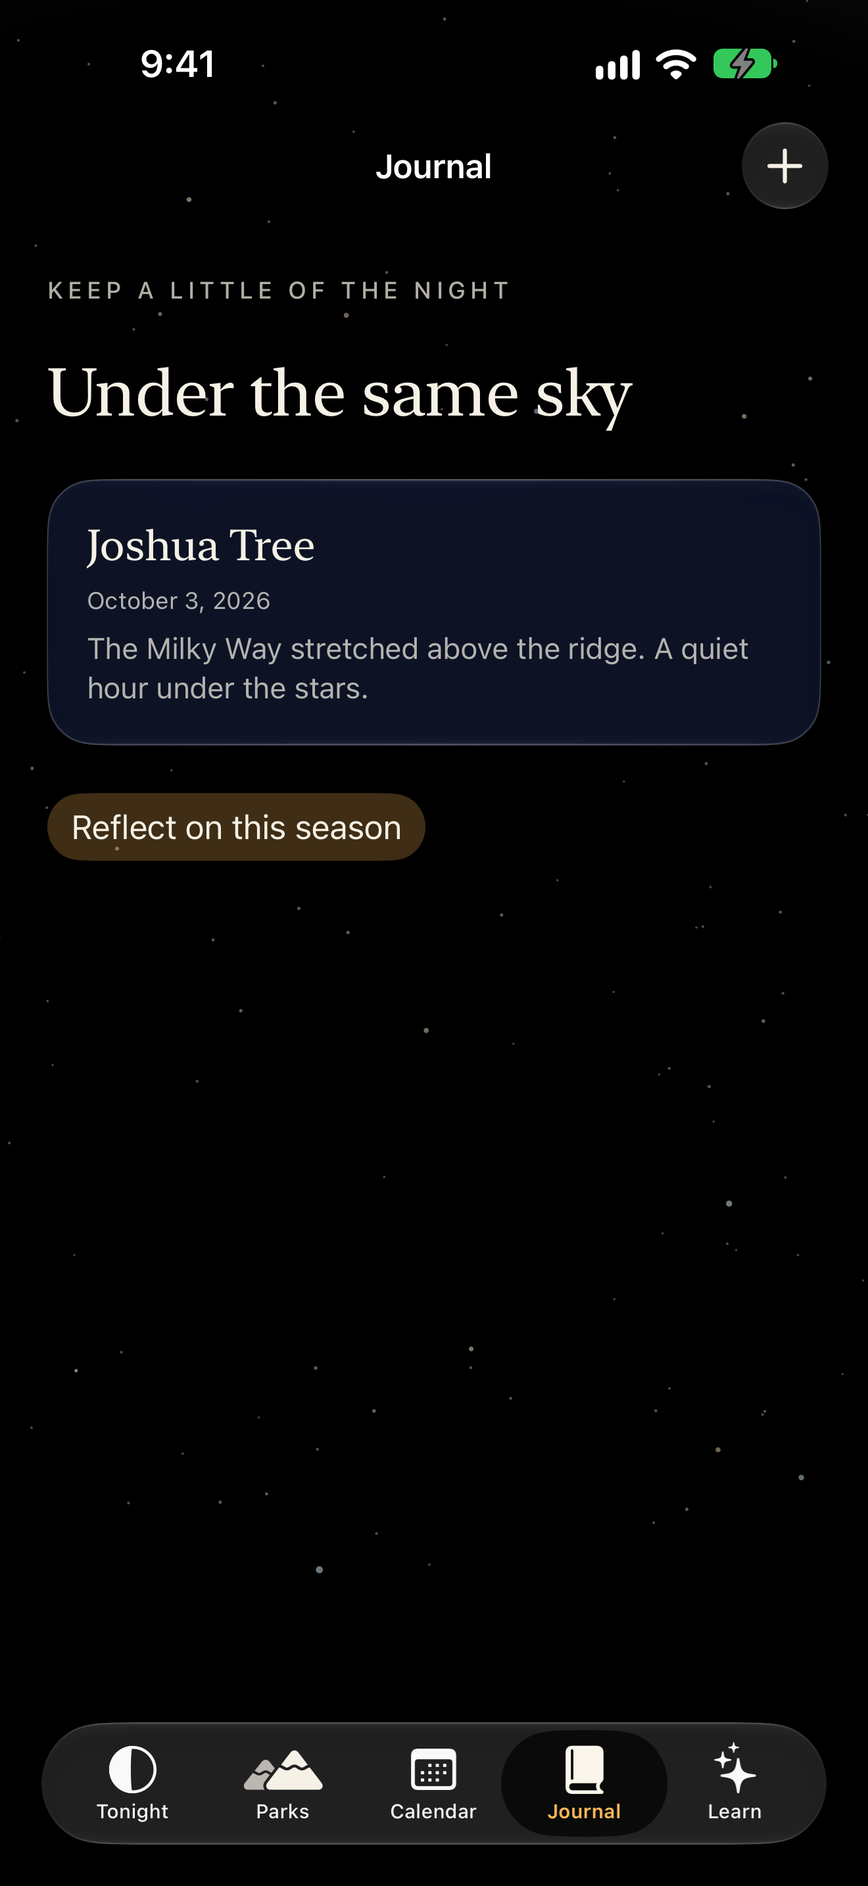
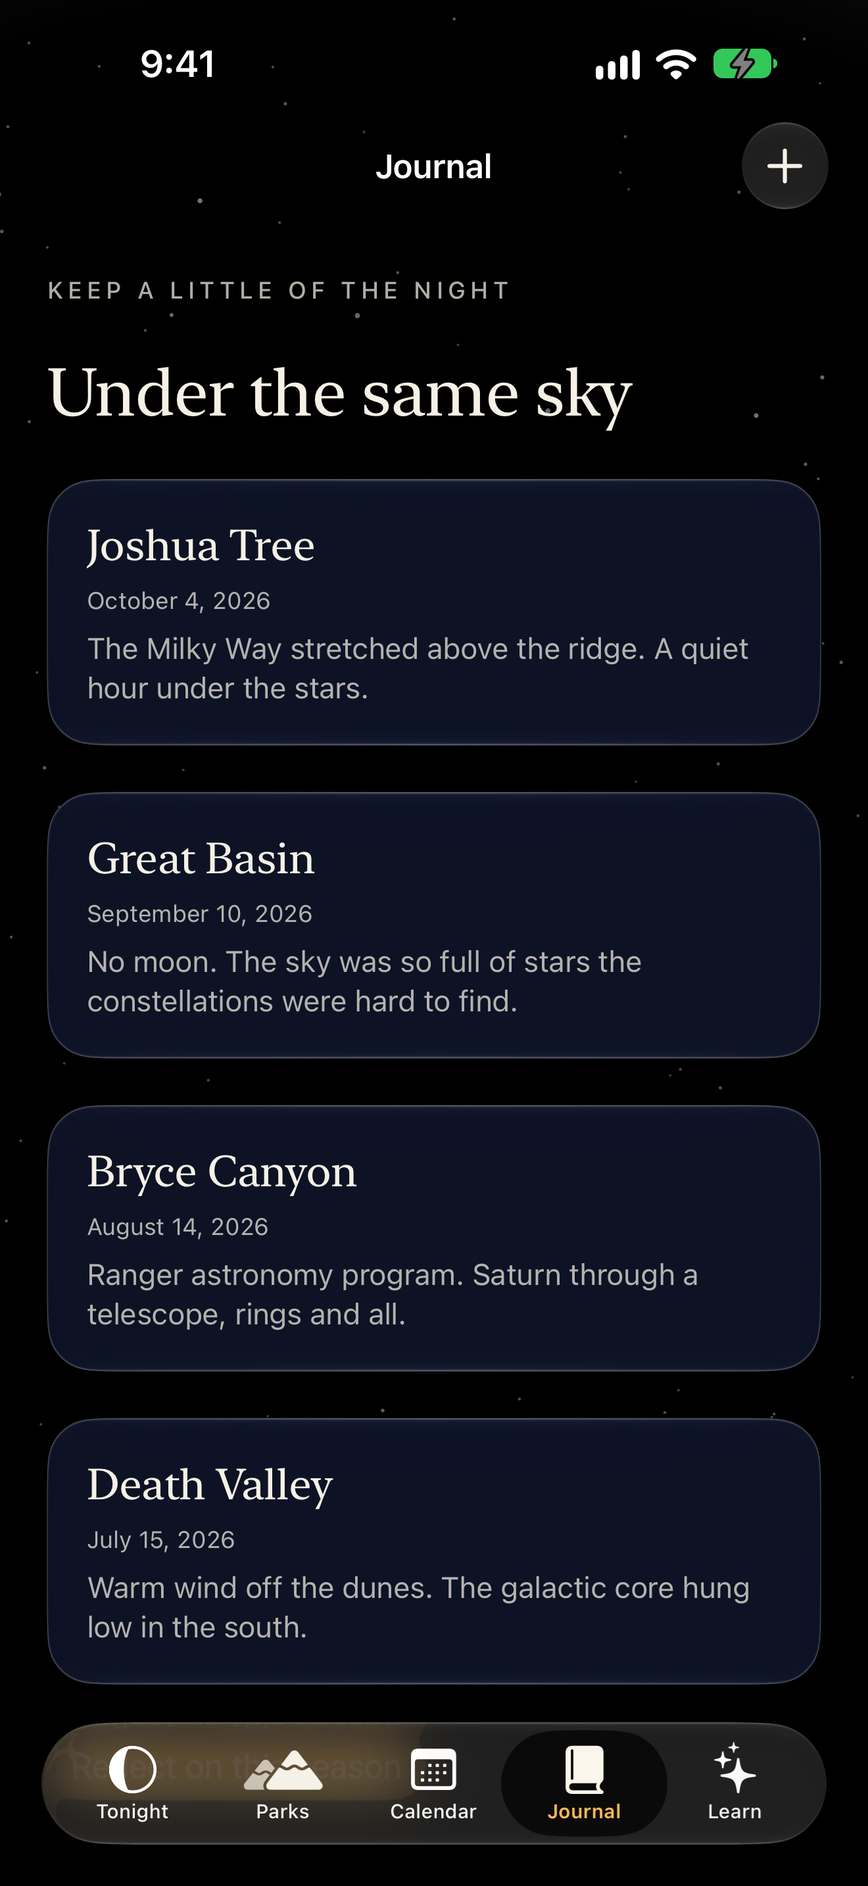
Add captioned App Store screenshots and social launch images
- Store/Framed: six captioned frames at 6.9" (1320x2868) and 6.5" (1284x2778),
  flattened, built by Scripts/make_store_frames.swift from the raw captures.
- Store/Social: four 1080x1350 images and post copy for X and Threads,
  built by Scripts/make_social.swift.
- DEBUG populated journal seeds four illustrative sessions; journal capture
  retaken so the frame isn't mostly empty.

diff --git a/Scripts/make_store_frames.swift b/Scripts/make_store_frames.swift
@@ -1,0 +1,127 @@
+// Builds captioned App Store screenshots from the raw captures in Store/Screenshots.
+// Usage: swift Scripts/make_store_frames.swift  (run from the repo root)
+// Writes Store/Framed/6.9-inch (1320×2868) and Store/Framed/6.5-inch (1284×2778), flattened, no alpha.
+import AppKit
+
+struct Frame {
+    let source: String
+    let output: String
+    let eyebrow: String
+    let headline: String
+    var subline: String? = nil
+    var accent = NSColor(srgbRed: 1, green: 0xB4/255, blue: 0x54/255, alpha: 1)
+}
+
+let signalRed = NSColor(srgbRed: 1, green: 0x45/255, blue: 0x3A/255, alpha: 1)
+let frames = [
+    Frame(source: "01-tonight-6.9.png", output: "01-tonight.png",
+          eyebrow: "TONIGHT", headline: "Where is the sky\ndarkest tonight?"),
+    Frame(source: "02-detail-6.9.png", output: "02-score.png",
+          eyebrow: "THE DARKNESS SCORE", headline: "Moon, clouds, light pollution.\nOne honest number."),
+    Frame(source: "03-calendar-6.9.png", output: "03-calendar.png",
+          eyebrow: "BEST NIGHTS", headline: "Choose the night\nworth the drive."),
+    Frame(source: "04-parks-6.9.png", output: "04-parks.png",
+          eyebrow: "63 NATIONAL PARKS", headline: "Every park,\nscored every night."),
+    Frame(source: "06-learn-6.9.png", output: "05-night-vision.png",
+          eyebrow: "NIGHT VISION", headline: "Red light that keeps\nyour eyes dark-adapted.", accent: signalRed),
+    Frame(source: "05-journal-6.9.png", output: "06-journal.png",
+          eyebrow: "JOURNAL", headline: "Keep a little\nof the night.",
+          subline: "No account. No tracking. Your journal stays on this iPhone."),
+]
+
+let starlight = NSColor(srgbRed: 0xF5/255, green: 0xF1/255, blue: 0xE6/255, alpha: 1)
+let indigo = NSColor(srgbRed: 0x0B/255, green: 0x10/255, blue: 0x26/255, alpha: 1)
+let violet = NSColor(srgbRed: 0x2A/255, green: 0x1B/255, blue: 0x4E/255, alpha: 1)
+let rgb = CGColorSpaceCreateDeviceRGB()
+
+func serif(_ size: CGFloat) -> NSFont {
+    let base = NSFont.systemFont(ofSize: size, weight: .regular)
+    if let d = base.fontDescriptor.withDesign(.serif), let f = NSFont(descriptor: d, size: size) { return f }
+    return base
+}
+
+// Deterministic generator so every run draws the same stars.
+struct LCG { var s: UInt64; mutating func next() -> CGFloat { s = s &* 6364136223846793005 &+ 1442695040888963407; return CGFloat(s >> 33) / CGFloat(1 << 31) } }
+
+func render(_ frame: Frame, index: Int, width W: CGFloat, height H: CGFloat) -> Data? {
+    guard let shot = NSImage(contentsOfFile: "Store/Screenshots/" + frame.source),
+          let shotCG = shot.cgImage(forProposedRect: nil, context: nil, hints: nil),
+          let rep = NSBitmapImageRep(bitmapDataPlanes: nil, pixelsWide: Int(W), pixelsHigh: Int(H), bitsPerSample: 8,
+                                     samplesPerPixel: 4, hasAlpha: true, isPlanar: false, colorSpaceName: .deviceRGB,
+                                     bytesPerRow: 0, bitsPerPixel: 0),
+          let base = NSGraphicsContext(bitmapImageRep: rep) else { return nil }
+    let u = H / 2868  // layout unit, so both sizes share one design
+    let ctx = base.cgContext
+    ctx.translateBy(x: 0, y: H); ctx.scaleBy(x: 1, y: -1)  // top-left origin
+    NSGraphicsContext.current = NSGraphicsContext(cgContext: ctx, flipped: true)
+
+    // Void black with a low violet/indigo glow behind the phone.
+    ctx.setFillColor(NSColor.black.cgColor); ctx.fill(CGRect(x: 0, y: 0, width: W, height: H))
+    let glowTint = frame.accent == signalRed ? signalRed.withAlphaComponent(0.22) : violet.withAlphaComponent(0.6)
+    let glow = CGGradient(colorsSpace: rgb, colors: [glowTint.cgColor, indigo.withAlphaComponent(0.3).cgColor, NSColor.clear.cgColor] as CFArray,
+                          locations: [0, 0.45, 1])!
+    let glowCenter = CGPoint(x: W / 2, y: H * 0.78)
+    ctx.drawRadialGradient(glow, startCenter: glowCenter, startRadius: 0, endCenter: glowCenter, endRadius: W * 0.95, options: [])
+
+    var rng = LCG(s: UInt64(1009 + index * 31))
+    for _ in 0..<260 {
+        let x = rng.next() * W, y = rng.next() * H, r = (0.8 + rng.next() * 2.0) * u
+        let a = 0.12 + rng.next() * 0.55
+        ctx.setFillColor((frame.accent == signalRed ? signalRed : starlight).withAlphaComponent(a).cgColor)
+        ctx.fillEllipse(in: CGRect(x: x - r, y: y - r, width: r * 2, height: r * 2))
+    }
+
+    // Eyebrow, headline and optional subline.
+    let center = NSMutableParagraphStyle(); center.alignment = .center; center.lineSpacing = 6 * u
+    NSAttributedString(string: frame.eyebrow, attributes: [
+        .font: NSFont.systemFont(ofSize: 34 * u, weight: .semibold), .foregroundColor: frame.accent,
+        .kern: 9.0 * u, .paragraphStyle: center,
+    ]).draw(in: CGRect(x: 60 * u, y: 190 * u, width: W - 120 * u, height: 50 * u))
+    let longest = frame.headline.split(separator: "\n").map(\.count).max() ?? 0
+    let headSize: CGFloat = (longest > 24 ? 84 : 100) * u
+    NSAttributedString(string: frame.headline, attributes: [
+        .font: serif(headSize), .foregroundColor: frame.accent == signalRed ? signalRed : starlight,
+        .kern: -0.6 * u, .paragraphStyle: center,
+    ]).draw(in: CGRect(x: 50 * u, y: 262 * u, width: W - 100 * u, height: 280 * u))
+    if let subline = frame.subline {
+        NSAttributedString(string: subline, attributes: [
+            .font: NSFont.systemFont(ofSize: 32 * u), .foregroundColor: starlight.withAlphaComponent(0.7), .paragraphStyle: center,
+        ]).draw(in: CGRect(x: 60 * u, y: 548 * u, width: W - 120 * u, height: 50 * u))
+    }
+
+    // The full capture as a floating screen with an accent halo and hairline edge.
+    let phoneH = 2150 * u
+    let phoneW = phoneH * CGFloat(shotCG.width) / CGFloat(shotCG.height)
+    let rect = CGRect(x: (W - phoneW) / 2, y: (frame.subline == nil ? 640 : 660) * u, width: phoneW, height: phoneH)
+    let path = CGPath(roundedRect: rect, cornerWidth: 118 * u, cornerHeight: 118 * u, transform: nil)
+    ctx.saveGState()
+    ctx.setShadow(offset: .zero, blur: 90 * u, color: frame.accent.withAlphaComponent(0.22).cgColor)
+    ctx.addPath(path); ctx.setFillColor(NSColor.black.cgColor); ctx.fillPath()
+    ctx.restoreGState()
+    ctx.saveGState()
+    ctx.addPath(path); ctx.clip()
+    ctx.translateBy(x: rect.minX, y: rect.maxY); ctx.scaleBy(x: 1, y: -1)
+    ctx.interpolationQuality = .high
+    ctx.draw(shotCG, in: CGRect(origin: .zero, size: rect.size))
+    ctx.restoreGState()
+    ctx.addPath(path); ctx.setStrokeColor(starlight.withAlphaComponent(0.18).cgColor); ctx.setLineWidth(3 * u); ctx.strokePath()
+
+    NSGraphicsContext.current = nil
+    // Flatten: App Store Connect rejects screenshots with an alpha channel.
+    guard let cg = rep.cgImage,
+          let flat = CGContext(data: nil, width: Int(W), height: Int(H), bitsPerComponent: 8, bytesPerRow: 0,
+                               space: CGColorSpace(name: CGColorSpace.sRGB)!, bitmapInfo: CGImageAlphaInfo.noneSkipLast.rawValue) else { return nil }
+    flat.draw(cg, in: CGRect(x: 0, y: 0, width: W, height: H))
+    guard let out = flat.makeImage() else { return nil }
+    return NSBitmapImageRep(cgImage: out).representation(using: .png, properties: [:])
+}
+
+for (folder, w, h) in [("6.9-inch", 1320.0, 2868.0), ("6.5-inch", 1284.0, 2778.0)] {
+    let dir = URL(fileURLWithPath: "Store/Framed/\(folder)", isDirectory: true)
+    try FileManager.default.createDirectory(at: dir, withIntermediateDirectories: true)
+    for (i, frame) in frames.enumerated() {
+        guard let png = render(frame, index: i, width: CGFloat(w), height: CGFloat(h)) else { print("failed \(frame.source)"); continue }
+        try png.write(to: dir.appendingPathComponent(frame.output))
+        print("wrote Store/Framed/\(folder)/\(frame.output)")
+    }
+}

diff --git a/Scripts/make_social.swift b/Scripts/make_social.swift
@@ -1,0 +1,131 @@
+// Builds 1080×1350 (4:5) social images from the App Store captures.
+// Usage: swift Scripts/make_social.swift  (run from the repo root)
+import AppKit
+
+struct Card {
+    let source: String
+    let output: String
+    let eyebrow: String
+    let headline: String
+    let cropTop: CGFloat  // fraction of the capture hidden above the frame
+}
+
+let cards = [
+    Card(source: "Store/Screenshots/01-tonight-6.9.png", output: "01-tonight.png",
+         eyebrow: "NYX FOR IPHONE", headline: "Where is the sky\ndarkest tonight?", cropTop: 0),
+    Card(source: "Store/Screenshots/02-detail-6.9.png", output: "02-score.png",
+         eyebrow: "THE NEXT 30 NIGHTS", headline: "Follow the moon.\nFind the darker nights.", cropTop: 0.33),
+    Card(source: "Store/Screenshots/03-calendar-6.9.png", output: "03-calendar.png",
+         eyebrow: "BEST NIGHTS", headline: "Choose the night\nworth the drive.", cropTop: 0.12),
+    Card(source: "Store/Screenshots/04-parks-6.9.png", output: "04-parks.png",
+         eyebrow: "63 NATIONAL PARKS", headline: "Every park,\nscored every night.", cropTop: 0.12),
+]
+
+let W: CGFloat = 1080, H: CGFloat = 1350
+let starlight = NSColor(srgbRed: 0xF5/255, green: 0xF1/255, blue: 0xE6/255, alpha: 1)
+let amber = NSColor(srgbRed: 1, green: 0xB4/255, blue: 0x54/255, alpha: 1)
+let indigo = NSColor(srgbRed: 0x0B/255, green: 0x10/255, blue: 0x26/255, alpha: 1)
+let violet = NSColor(srgbRed: 0x2A/255, green: 0x1B/255, blue: 0x4E/255, alpha: 1)
+
+func serif(_ size: CGFloat) -> NSFont {
+    let base = NSFont.systemFont(ofSize: size, weight: .regular)
+    if let d = base.fontDescriptor.withDesign(.serif), let f = NSFont(descriptor: d, size: size) { return f }
+    return NSFont(name: "New York", size: size) ?? base
+}
+
+// Small deterministic generator so every run draws the same stars.
+struct LCG { var s: UInt64; mutating func next() -> CGFloat { s = s &* 6364136223846793005 &+ 1442695040888963407; return CGFloat(s >> 33) / CGFloat(1 << 31) } }
+
+let outDir = URL(fileURLWithPath: "Store/Social", isDirectory: true)
+try FileManager.default.createDirectory(at: outDir, withIntermediateDirectories: true)
+
+for (index, card) in cards.enumerated() {
+    guard let shot = NSImage(contentsOfFile: card.source),
+          let shotCG = shot.cgImage(forProposedRect: nil, context: nil, hints: nil) else {
+        print("missing \(card.source)"); continue
+    }
+    guard let rep = NSBitmapImageRep(bitmapDataPlanes: nil, pixelsWide: Int(W), pixelsHigh: Int(H), bitsPerSample: 8,
+                                     samplesPerPixel: 4, hasAlpha: true, isPlanar: false, colorSpaceName: .deviceRGB,
+                                     bytesPerRow: 0, bitsPerPixel: 0),
+          let gctx = NSGraphicsContext(bitmapImageRep: rep) else { continue }
+    NSGraphicsContext.current = gctx
+    let ctx = gctx.cgContext
+    // Flip to top-left origin.
+    ctx.translateBy(x: 0, y: H); ctx.scaleBy(x: 1, y: -1)
+
+    // Void black, with a low indigo/violet glow behind the phone.
+    ctx.setFillColor(NSColor.black.cgColor); ctx.fill(CGRect(x: 0, y: 0, width: W, height: H))
+    let glow = CGGradient(colorsSpace: CGColorSpaceCreateDeviceRGB(),
+                          colors: [violet.withAlphaComponent(0.55).cgColor, indigo.withAlphaComponent(0.35).cgColor, NSColor.clear.cgColor] as CFArray,
+                          locations: [0, 0.45, 1])!
+    ctx.drawRadialGradient(glow, startCenter: CGPoint(x: W/2, y: H * 0.95), startRadius: 0,
+                           endCenter: CGPoint(x: W/2, y: H * 0.95), endRadius: W * 0.85, options: [])
+
+    // Seeded starfield.
+    var rng = LCG(s: UInt64(42 + index * 7))
+    for _ in 0..<170 {
+        let x = rng.next() * W, y = rng.next() * H
+        let r = 0.6 + rng.next() * 1.6
+        ctx.setFillColor(starlight.withAlphaComponent(0.15 + rng.next() * 0.55).cgColor)
+        ctx.fillEllipse(in: CGRect(x: x - r, y: y - r, width: r * 2, height: r * 2))
+    }
+
+    // Eyebrow and headline. NSString drawing expects a flipped context.
+    let flipped = NSGraphicsContext(cgContext: ctx, flipped: true)
+    NSGraphicsContext.current = flipped
+    let eyebrowAttrs: [NSAttributedString.Key: Any] = [
+        .font: NSFont.systemFont(ofSize: 24, weight: .semibold), .foregroundColor: amber, .kern: 6.0]
+    let para = NSMutableParagraphStyle(); para.alignment = .center; para.lineSpacing = 4
+    let eyebrow = NSAttributedString(string: card.eyebrow, attributes: eyebrowAttrs.merging([.paragraphStyle: para]) { $1 })
+    eyebrow.draw(in: CGRect(x: 60, y: 84, width: W - 120, height: 34))
+    let headSize: CGFloat = card.headline.count > 40 ? 56 : 68
+    let head = NSAttributedString(string: card.headline, attributes: [
+        .font: serif(headSize), .foregroundColor: starlight, .paragraphStyle: para, .kern: -0.5])
+    head.draw(in: CGRect(x: 50, y: 132, width: W - 100, height: 200))
+
+    // Phone capture, rounded, bleeding off the bottom edge.
+    let phoneW: CGFloat = 640
+    let scale = phoneW / CGFloat(shotCG.width)
+    let phoneH = CGFloat(shotCG.height) * scale
+    let top: CGFloat = 350
+    let frame = CGRect(x: (W - phoneW) / 2, y: top - card.cropTop * phoneH, width: phoneW, height: phoneH)
+    let visible = CGRect(x: frame.minX, y: top, width: phoneW, height: H - top + 80)
+    let radius: CGFloat = 78
+    ctx.saveGState()
+    ctx.setShadow(offset: .zero, blur: 60, color: amber.withAlphaComponent(0.18).cgColor)
+    let path = CGPath(roundedRect: card.cropTop == 0 ? frame : visible, cornerWidth: radius, cornerHeight: radius, transform: nil)
+    ctx.addPath(path); ctx.setFillColor(NSColor.black.cgColor); ctx.fillPath()
+    ctx.restoreGState()
+    ctx.saveGState()
+    ctx.addPath(path); ctx.clip()
+    // Draw the image upright inside the flipped context.
+    ctx.saveGState()
+    ctx.translateBy(x: frame.minX, y: frame.maxY); ctx.scaleBy(x: 1, y: -1)
+    ctx.interpolationQuality = .high
+    ctx.draw(shotCG, in: CGRect(x: 0, y: 0, width: phoneW, height: phoneH))
+    ctx.restoreGState()
+    if card.cropTop > 0 {
+        // Soft fade where the capture is cut, so it reads as a scroll, not a crop.
+        let fade = CGGradient(colorsSpace: CGColorSpaceCreateDeviceRGB(),
+                              colors: [NSColor.black.cgColor, NSColor.black.withAlphaComponent(0).cgColor] as CFArray, locations: [0, 1])!
+        ctx.drawLinearGradient(fade, start: CGPoint(x: 0, y: top), end: CGPoint(x: 0, y: top + 90), options: [])
+    }
+    ctx.restoreGState()
+    ctx.addPath(path); ctx.setStrokeColor(starlight.withAlphaComponent(0.16).cgColor); ctx.setLineWidth(2); ctx.strokePath()
+
+    // Fade the bottom edge into the night.
+    let bottom = CGGradient(colorsSpace: CGColorSpaceCreateDeviceRGB(),
+                            colors: [NSColor.black.withAlphaComponent(0).cgColor, NSColor.black.cgColor] as CFArray, locations: [0, 1])!
+    ctx.drawLinearGradient(bottom, start: CGPoint(x: 0, y: H - 170), end: CGPoint(x: 0, y: H), options: [])
+
+    NSGraphicsContext.current = nil
+    // Flatten (no alpha) for upload.
+    guard let cg = rep.cgImage,
+          let flat = CGContext(data: nil, width: Int(W), height: Int(H), bitsPerComponent: 8, bytesPerRow: 0,
+                               space: CGColorSpace(name: CGColorSpace.sRGB)!, bitmapInfo: CGImageAlphaInfo.noneSkipLast.rawValue) else { continue }
+    flat.draw(cg, in: CGRect(x: 0, y: 0, width: W, height: H))
+    guard let out = flat.makeImage(),
+          let png = NSBitmapImageRep(cgImage: out).representation(using: .png, properties: [:]) else { continue }
+    try png.write(to: outDir.appendingPathComponent(card.output))
+    print("wrote Store/Social/\(card.output)")
+}

diff --git a/Nyx/App/RootView.swift b/Nyx/App/RootView.swift
@@ -57,6 +57,11 @@ struct RootView:View {
             #if DEBUG
             if DebugScenario.state=="populated" {
                 context.insert(JournalEntry(date:.now,parkID:model.homeID,notes:"The Milky Way stretched above the ridge. A quiet hour under the stars."))
+                // Illustrative past sessions so store captures show a lived-in journal.
+                let day:TimeInterval=86_400
+                context.insert(JournalEntry(date:.now-24*day,parkID:"grba",observedBortle:1,notes:"No moon. The sky was so full of stars the constellations were hard to find."))
+                context.insert(JournalEntry(date:.now-52*day,parkID:"brca",observedBortle:2,notes:"Ranger astronomy program. Saturn through a telescope, rings and all."))
+                context.insert(JournalEntry(date:.now-81*day,parkID:"deva",observedBortle:2,notes:"Warm wind off the dunes. The galactic core hung low in the south."))
                 context.insert(SavedPark(parkID:model.homeID))
                 try? context.save()
             }

diff --git a/Store/Social/POSTS.md b/Store/Social/POSTS.md
@@ -1,0 +1,105 @@
+# Nyx — launch posts for X and Threads
+
+Images (1080×1350, 4:5, fits both feeds uncropped), in posting order:
+
+1. `01-tonight.png` — "Where is the sky darkest tonight?"
+2. `02-score.png` — "Follow the moon. Find the darker nights."
+3. `03-calendar.png` — "Choose the night worth the drive."
+4. `04-parks.png` — "Every park, scored every night."
+
+Regenerate with `swift Scripts/make_social.swift` from the repo root after recapturing `Store/Screenshots`.
+
+Replace `[link]` with the App Store link once the app is live. Until then, use the "coming soon" lines.
+
+---
+
+## X — single post (4 images attached)
+
+> I built Nyx, a dark-sky planner for the 63 US national parks.
+>
+> It answers one question: where should I go, and on which night, for the darkest sky?
+>
+> Moon, clouds, light pollution and true darkness become one score.
+>
+> Free. No account. No tracking.
+> [link]
+
+(≈270 characters with the link, under 280.)
+
+---
+
+## X — thread (one image per post)
+
+**1/5** · `01-tonight.png`
+> People drive hours into national parks to see the Milky Way, then arrive under a full moon or a cloud deck.
+>
+> I built Nyx to fix that. It tells you where the sky is darkest tonight, and which nights are worth the drive. 🧵
+
+**2/5** · `02-score.png`
+> Every park, every night, gets a Darkness Score from 0 to 100.
+>
+> 40% moonlight (and whether the moon is up during the dark hours), 25% cloud cover, 20% light pollution, 15% length of true darkness.
+>
+> Tap "Why this score" and it shows the math.
+
+**3/5** · `03-calendar.png`
+> The calendar marks the best five-night window around each new moon.
+>
+> Past the ~16-day weather forecast, nights turn hollow: moon and darkness only, clouds unknown. It never pretends to know the weather a month out.
+
+**4/5** · `04-parks.png`
+> All 63 parks, from Acadia to the National Park of American Samoa. Real astronomy for each one, including Alaska in June when there's no true darkness at all.
+>
+> Park closures show next to the score, so you don't drive four hours to a closed road.
+
+**5/5** (no image, or reuse `01`)
+> Nyx works offline once installed. No account, no ads, no tracking. Your stargazing journal stays on your phone.
+>
+> The next new moon falls on the weekend of Oct 10–11.
+>
+> Free for iPhone: [link]
+
+---
+
+## Threads — single post (all 4 images as a carousel)
+
+> I built an app for people who drive hours to see the Milky Way.
+>
+> Nyx is a dark-sky planner for the 63 US national parks. It combines moonlight, cloud cover, light pollution and the length of true darkness into one Darkness Score for every park, every night.
+>
+> A calendar highlights the best nights around each new moon. Park closures sit next to the score. It works offline, and there's no account, no ads and no tracking.
+>
+> Free on iPhone. [link]
+
+(≈450 characters with the link, under the 500 limit.) Topic tag: **Astronomy** (Threads allows one; alternatives: Stargazing, NationalParks).
+
+## Threads — short follow-up reply
+
+> The next new moon falls on the weekend of Oct 10–11. If you were planning a dark-sky trip this fall, that's the window. Nyx shows which parks look best for it.
+
+---
+
+## Hashtags (X, use two at most)
+
+`#stargazing` `#NationalParks` · alternates: `#MilkyWay` `#darksky` `#iOSdev` (for the build-in-public crowd)
+
+## Alt text (paste into each image's description)
+
+1. Nyx's Tonight screen over a dark starfield. Headline: "Where is the sky darkest tonight?" Joshua Tree is the darkest nearby sky, with a Darkness Score of 85, Excellent, on an amber dial. A trail closure notice sits below the score.
+2. Nyx park detail for Joshua Tree. Headline: "Follow the moon. Find the darker nights." A score dial reads 85, Excellent. Below it, a 30-night timeline rises and falls with the moon; nights past the weather forecast are drawn hollow.
+3. Nyx calendar for Joshua Tree, October 2026. Headline: "Choose the night worth the drive." Each night shows a dot sized by its score; October 8 to 12 are ringed as the new-moon window, with scores up to 95.
+4. Nyx park list. Headline: "Every park, scored every night." Acadia 83 Excellent, Arches 71 Good, Badlands 69 Good, Big Bend 66 Good, Biscayne 58 Fair.
+
+## If the app isn't live yet
+
+Swap the last line for one of these:
+
+- X: "Coming to the App Store soon. Follow along."
+- Threads: "Coming to iPhone soon. Follow for the launch."
+- Or invite testers: "Looking for a few stargazers to try the beta. Reply and I'll send a TestFlight link."
+
+## Notes
+
+- The screenshots are real captures with live Open-Meteo forecasts from Oct 3, scored by the shipping engine. No numbers were staged.
+- Tone matches the app: calm, no exclamation points, honest about uncertainty.
+- Nyx isn't affiliated with the National Park Service. Avoid NPS logos or arrowheads in any reposts or edits.

diff --git a/DECISIONS.md b/DECISIONS.md
@@ -167,3 +167,4 @@ Four independent read-only reviews (astronomy and score math checked numerically
 - Theodore Roosevelt's North Unit spot notes that it keeps Central Time. Info.plist versions come from the build settings; verify_release.py now measures what it reports (URL and URLSession use across all sources, version and build against project.yml, NPS key expansion).
 - Not changed: 13 parks without verified viewing spots keep the ranger-guidance empty state (no unverified coordinates invented); the learn/*.md sources stay as the editable originals of the catalog essays.
 - Build 1.0 (4) archived with App Store distribution signing (automatic, team DUHVN68KBA) and uploaded on 2026-10-04 via `xcodebuild -exportArchive` (destination upload); includes the owner's NPS key and the fresh-audit fixes.
+- 2026-10-04 · Store: captioned App Store frames (`Store/Framed`, `Scripts/make_store_frames.swift`) replace raw captures as the upload set; the DEBUG `populated` journal now seeds four illustrative sessions so the journal frame isn't mostly empty.

diff --git a/Store/Framed/README.md b/Store/Framed/README.md
@@ -1,0 +1,10 @@
+# Captioned App Store screenshots
+
+Six frames built from the raw captures in `Store/Screenshots` by `swift Scripts/make_store_frames.swift` (run from the repo root). Each puts a short serif headline over the full, uncropped screen on a starfield. Flattened, no alpha.
+
+- `6.9-inch/` 1320×2868 — App Store Connect's required iPhone 6.9" slot
+- `6.5-inch/` 1284×2778 — the 6.5" slot
+
+Order: 01 Tonight, 02 Darkness Score, 03 Calendar, 04 Parks, 05 Night vision (Learn tab), 06 Journal.
+
+Scores are real (live forecasts captured Oct 3, 2026, scored by the shipping engine). Journal entries are illustrative DEBUG seed data with no personal photos. To change captions, edit the `frames` list in the script and rerun. Recapture the raw frames with `Scripts/capture_store.py` first if the UI changes.
